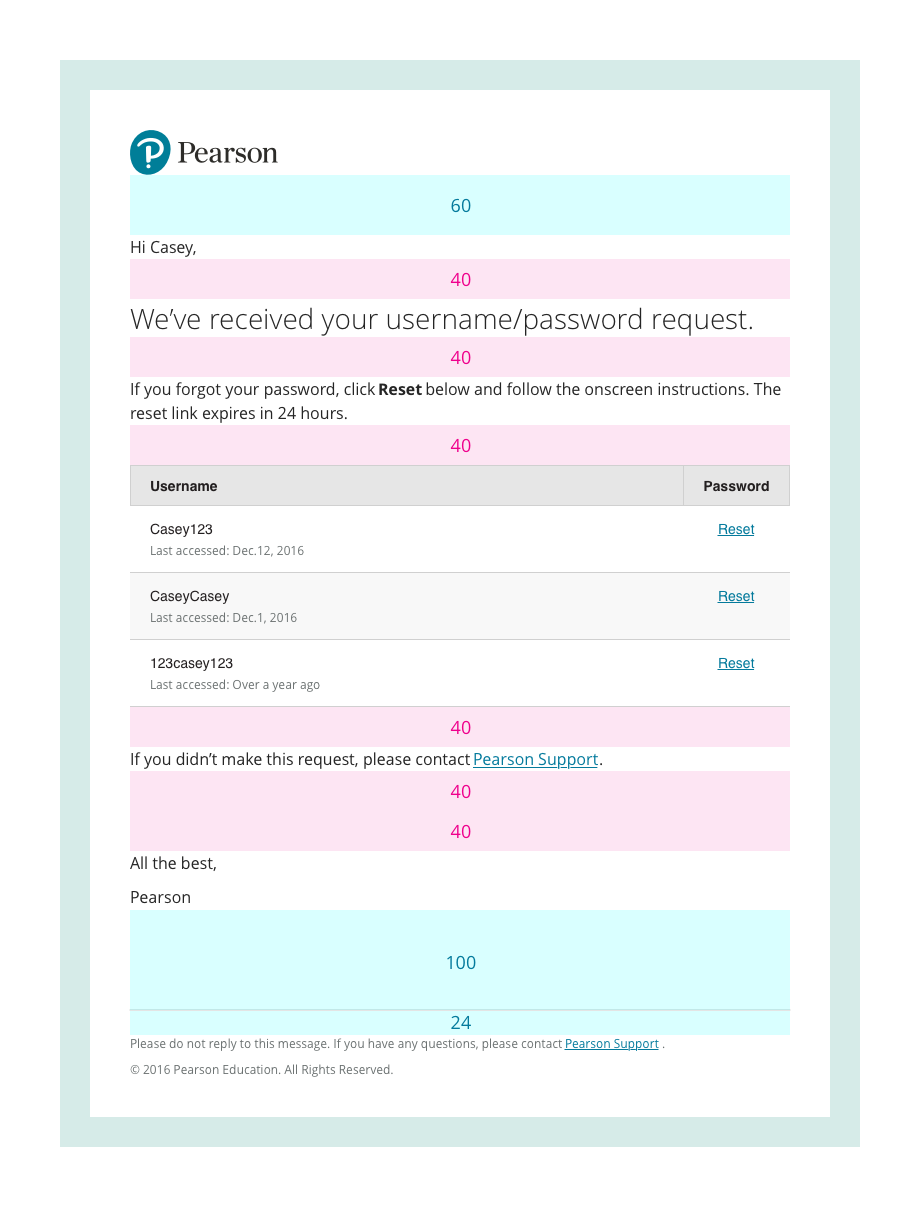
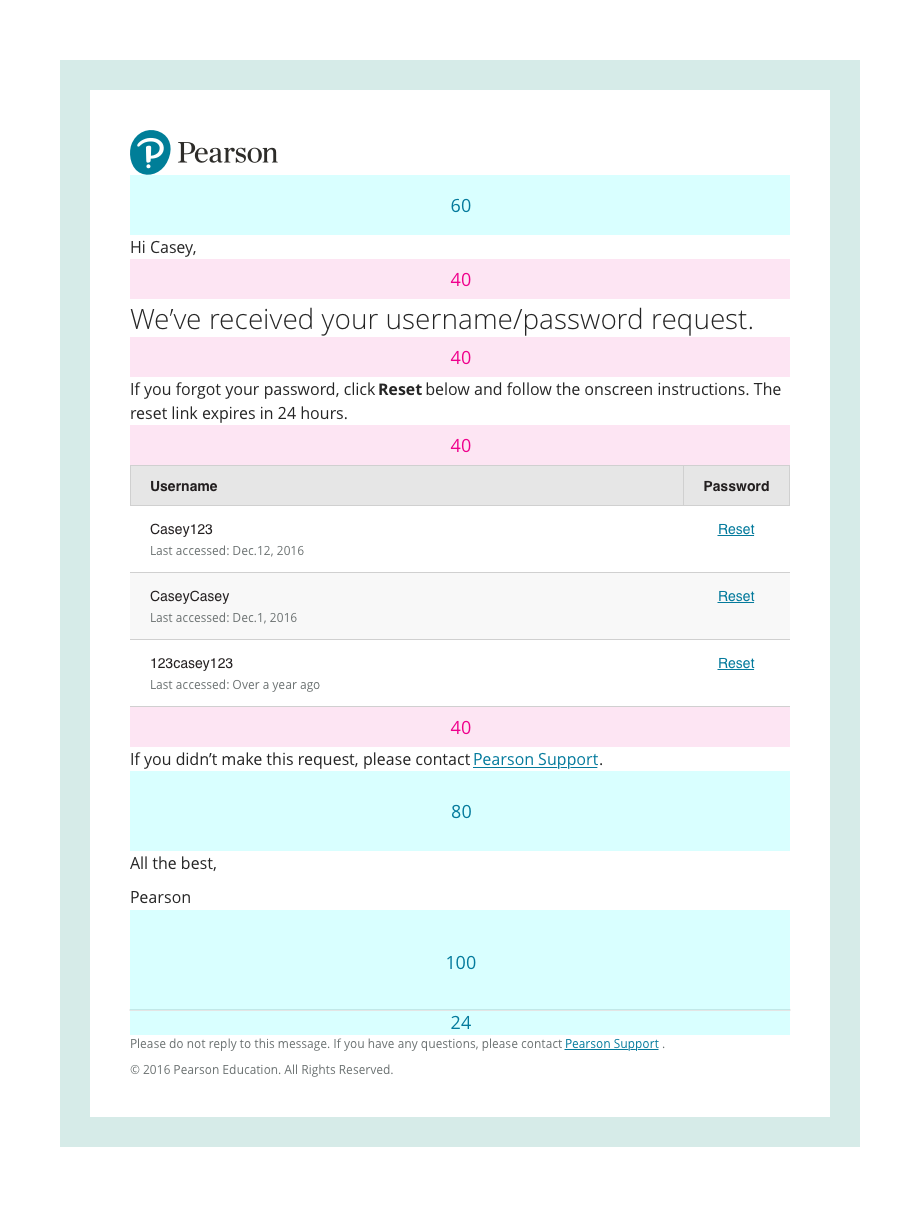
Added images
still need to add mockup for mobile and update sketch file

Changed region(s): [[0.1217, 0.6131, 0.8826, 0.7051]]

diff --git a/c/email/v1.0.0-beta.1/index.md b/c/email/v1.0.0-beta.1/index.md
@@ -112,7 +112,7 @@ blocks:
         caption: Create spacing using blocks of 40px tall
 
   - type: section
-    name: Specs
+    name: Redlines
 
   - type: two column
     text: |
@@ -158,7 +158,7 @@ blocks:
 
     contents:
       - type: wide image
-        src: ./assets/Email Components.png
+        src: ./assets/Email Components 2.png
 
   - type: two column
     text: |
@@ -170,7 +170,9 @@ blocks:
       - The white area has a padding of 5.25%
       - The ice blue frame has a padding of 3.75%
 
-
+    contents:
+      - type: wide image
+        src: ./assets/Email Redline_Paddings.png
 
 
   - type: section
